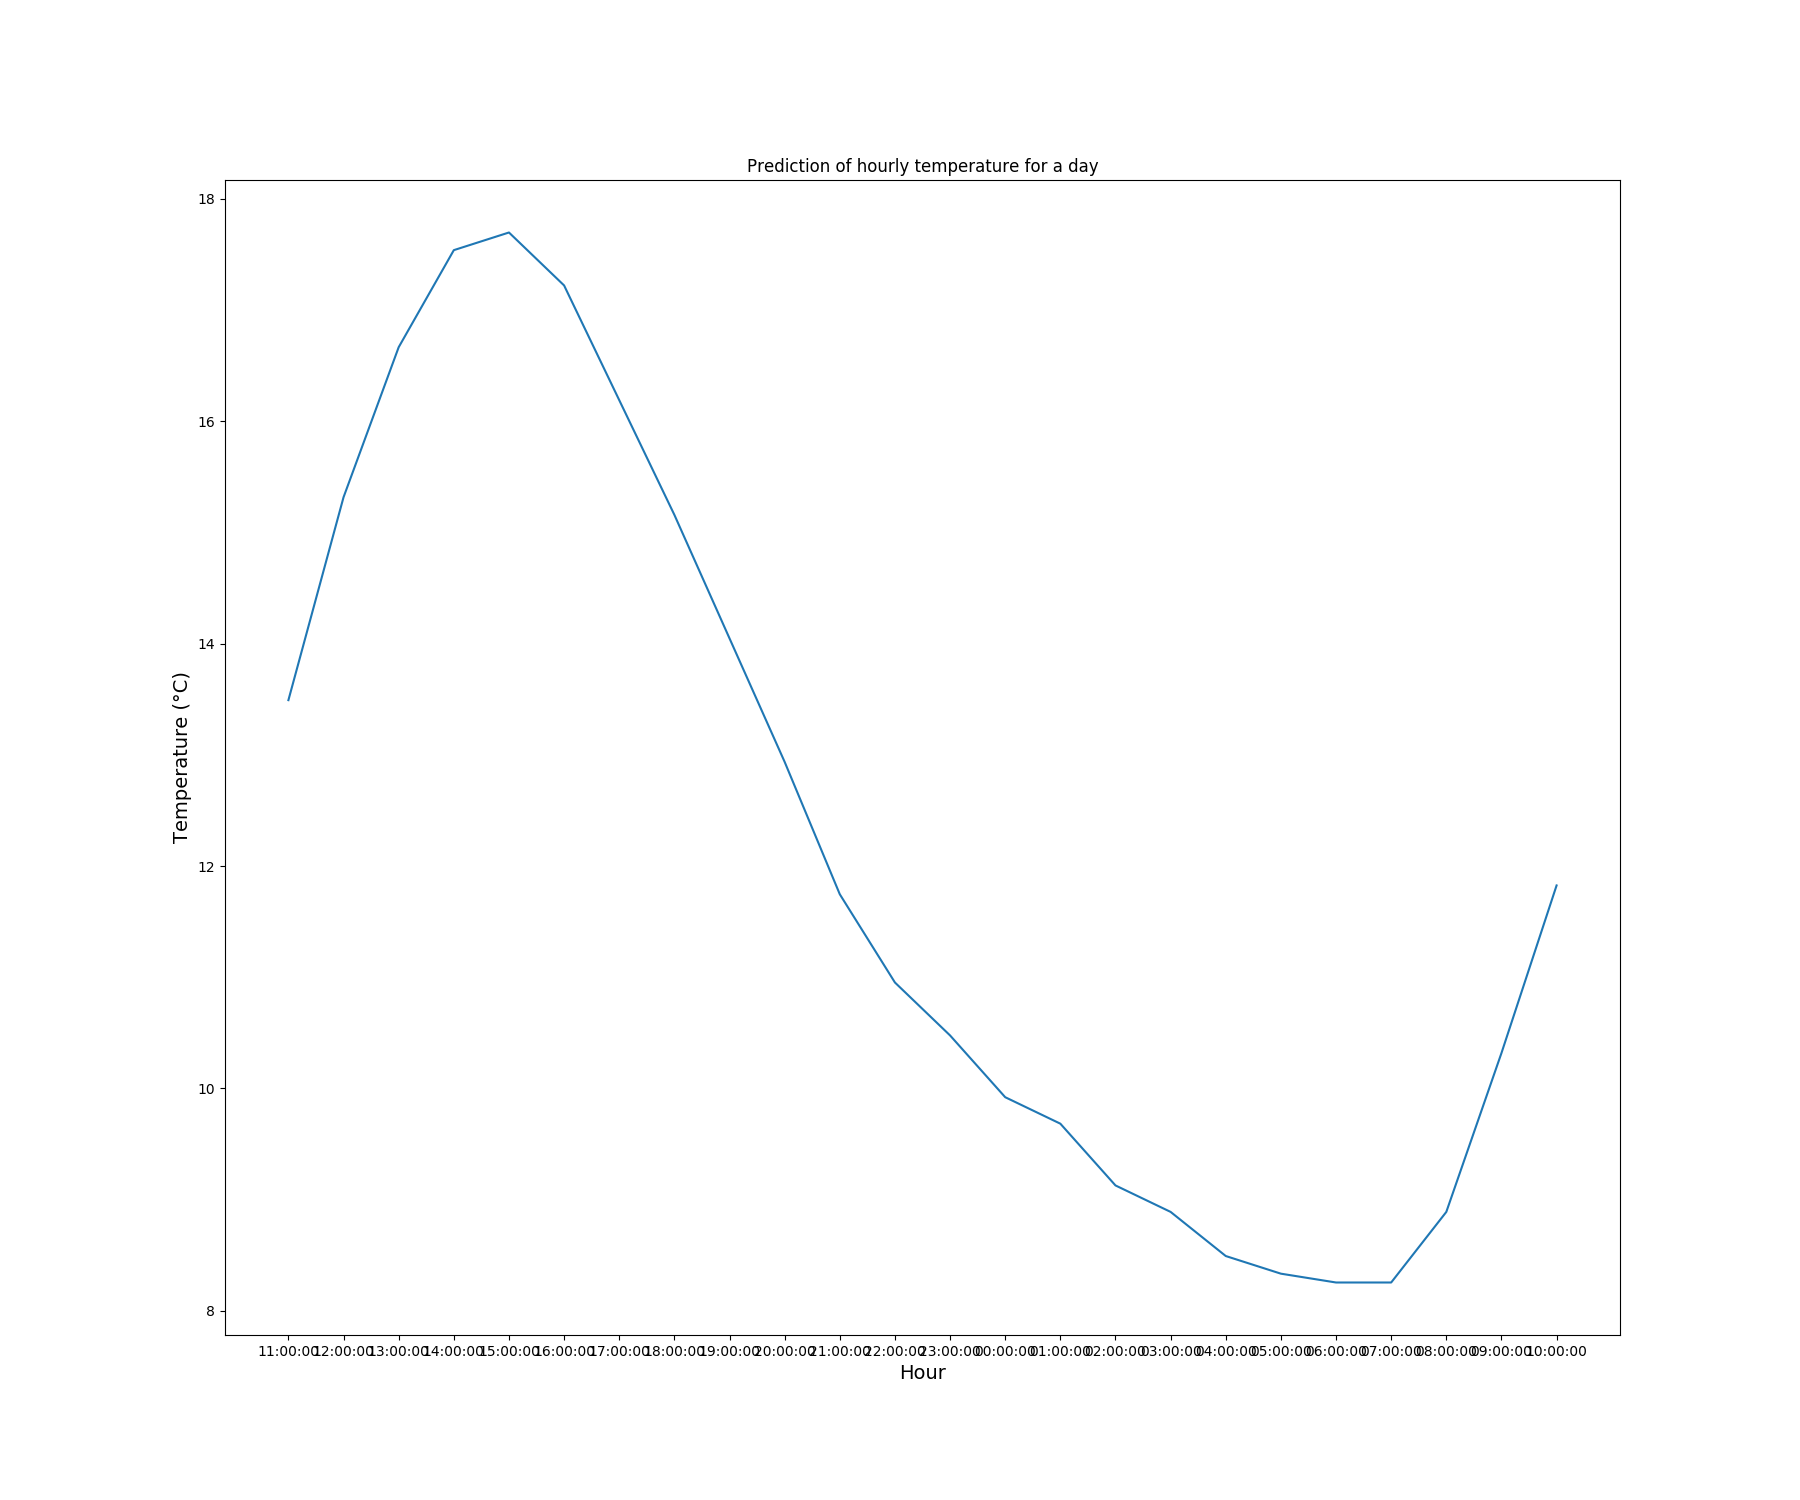
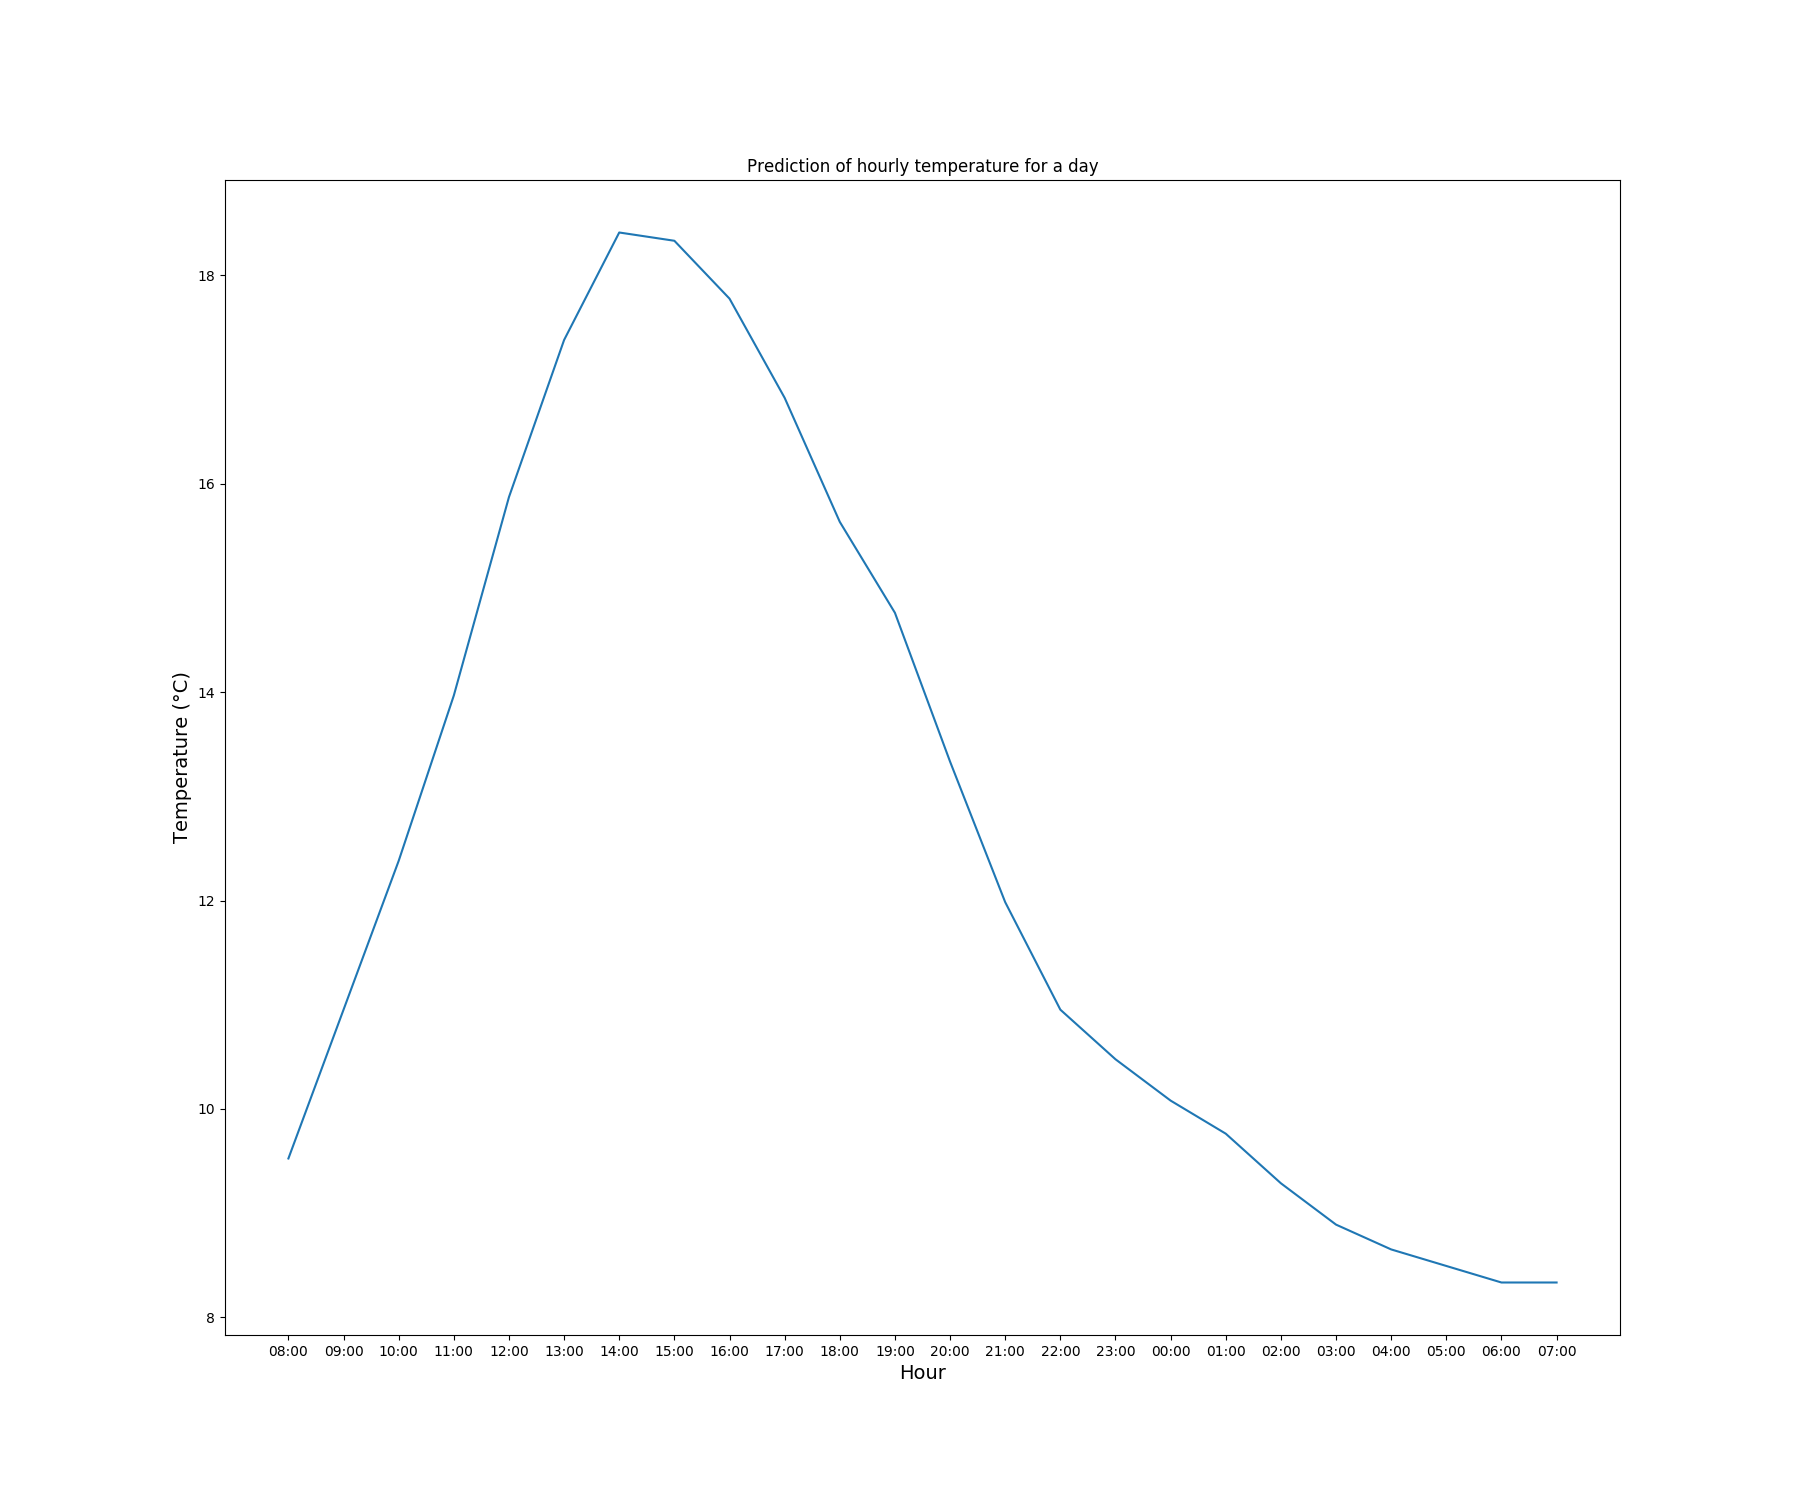
cleaned up graph, now outputs csv file

Changed region(s): [[0.1556, 0.8893, 0.8711, 0.92], [0.7467, 0.828, 0.8089, 0.8587], [0.3111, 0.184, 0.3422, 0.2147]]

diff --git a/Forecast.py b/Forecast.py
@@ -1,7 +1,6 @@
 import matplotlib.pyplot as plt
 import datetime
 import requests
-import json
 
 
 """
@@ -20,6 +19,7 @@ class ApiRequest:
         self.apiCall = "https://api.darksky.net/forecast/"
         #coordinates = Cuajimalpa
         #request has to be in format https://api.darksky.net/forecast/[key]/[latitude],[longitude]
+        #excluding several blocks to reduce latency. Extending the hourly request from 48 to 168 hours
         self.optionalParams = "?exclude=currently,minutely,alerts,flags&extend=hourly"
         self.location = {"latitude": "19.3599300", "longitude": "-99.2938800", "cluster": "Cuajimalpa"}
         self.response = requests.get(self.apiCall + self.key + "/" + self.location["latitude"] + "," + self.location["longitude"] + self.optionalParams)
@@ -40,7 +40,6 @@ class ApiRequest:
         data = self.response.json()
         hourly = data["hourly"]
         data = hourly["data"]
-        print(len(data))
         for i in range(168):
             hourData = data[i]
             self.next168Hours[convertTime(hourData["time"])] = tempConverter(hourData["temperature"])
@@ -51,14 +50,20 @@ class Prediction():
     """
     Requires: a valid ApiRequest instance
     Modifies: nothing
-    Effects: initializes member dictionary with all the keys
+    Effects: initializes member dictionary with all the keys, and makes all the calls to the member functions that do
+            most of the setup
     """
     def __init__(self,apiRequest):
+        #simply a copy of the dictionary containing the hourly temperature for the next 168 hours (2 weeks)
         self.next2WeeksTemp = apiRequest.next168Hours
+        # Dictionary which contains 24 hours of the day as keys, and as values has the average temperature for that hour
+        # averaged from the values in next2WeeksTemp
         self.averageTempByHour = {}
         self.fillTime()
         self.calcAveragePerHour()
+        # A list containing only the hour values of the averageTempByHour dictionary
         self.hourArray = []
+        # A list containing only the temperature values contained in the averageTempByHour dictionary
         self.avgTempArray = []
         self.fillArrays()
 
@@ -75,9 +80,9 @@ class Prediction():
 
 
     """
-    Requires: date is a date string of format YYYY,MM,DD HH:MM:SS
+    Requires: date is a date string of format YYYY,MM,DD HH:MM
     Modifies: nothing
-    Effects: returns only the HH:MM:SS part as string
+    Effects: returns only the HH:MM:SS part of the time as a string
     """
     def splitDate(self,date):
         timeArr = date.split(" ")
@@ -92,6 +97,7 @@ class Prediction():
     def calcAveragePerHour(self):
         for hourKey in self.averageTempByHour:
             for dateKey in self.next2WeeksTemp:
+                #looks through all the days, thus there are multiple instances of the same hour.
                 if(self.splitDate(dateKey) == hourKey):
                     self.averageTempByHour[hourKey] += self.next2WeeksTemp[dateKey]
         for key in self.averageTempByHour:
@@ -100,9 +106,9 @@ class Prediction():
             self.averageTempByHour[key] /= 7
 
     """
-    Requires: 
-    Modifies:
-    Effects:
+    Requires: averageTempByHour is correctly filled
+    Modifies: avgTempArray and hourArray
+    Effects: fills hourArray using the keys from averageTempByHour and fills avgTempArray using the values from avgTempByHour
     """
     def fillArrays(self):
         for hour in self.averageTempByHour:
@@ -111,16 +117,13 @@ class Prediction():
 
 
 
-
-
-
 """
 Requires: time is a UNIX time as string
 Modifies: nothing
-Effects: returns the time as YYYY,MM,DD HH:MM:SS
+Effects: returns the time as YYYY,MM,DD HH:MM
 """
 def convertTime(time):
-    newTime = datetime.datetime.fromtimestamp(int(time)).strftime('%Y,%m,%d %H:%M:%S')
+    newTime = datetime.datetime.fromtimestamp(int(time)).strftime('%Y,%m,%d %H:%M')
     return newTime
 
 """
@@ -132,13 +135,23 @@ def tempConverter(ftemp):
     ctemp = (int(ftemp) - 32) * (5/9)
     return ctemp
 
+"""
+Requires: Prediction and ApiRequest objects have been created error-free beforehand
+Modifies: Nothing
+Effects: Creates a csv file with hour,temp (predicted temperature in °C).
+"""
+def csvOutput(pred,req):
+    # using this style for opening guarantees that the file will be closed
+    with open("csvPrediction.txt","w") as csvFile:
+        csvFile.write("hour,temperature" + "\n")
+        for key in pred.averageTempByHour:
+            csvFile.write(key + "," + str(pred.averageTempByHour[key]) + "\n")
+
 
 def main():
     """
     plt setup ahead
     """
-
-
     ##############
     # Get current size
     fig_size = plt.rcParams["figure.figsize"]
@@ -147,20 +160,13 @@ def main():
 
     fig_size[0] = 18
     fig_size[1] = 15
+    #New Size is [18, 15]
     plt.rcParams["figure.figsize"] = fig_size
-    # Get current size
-    fig_size = plt.rcParams["figure.figsize"]
-
-    # New Size is: [12, 9]
-
     #############
 
-
     req = ApiRequest()
-    print(len(req.next168Hours))
     #print(req.next168Hours)
     pred = Prediction(req)
-    print(pred.averageTempByHour)
 
     chartLabel = "Prediction of hourly temperature for a day"
 
@@ -172,8 +178,8 @@ def main():
     plt.ylabel("Temperature (°C)", fontsize=14)
     plt.savefig("FirstTest.png")
 
-
-
+    #creating the csvFile
+    csvOutput(pred, req)
 
 
 if __name__ == '__main__':
